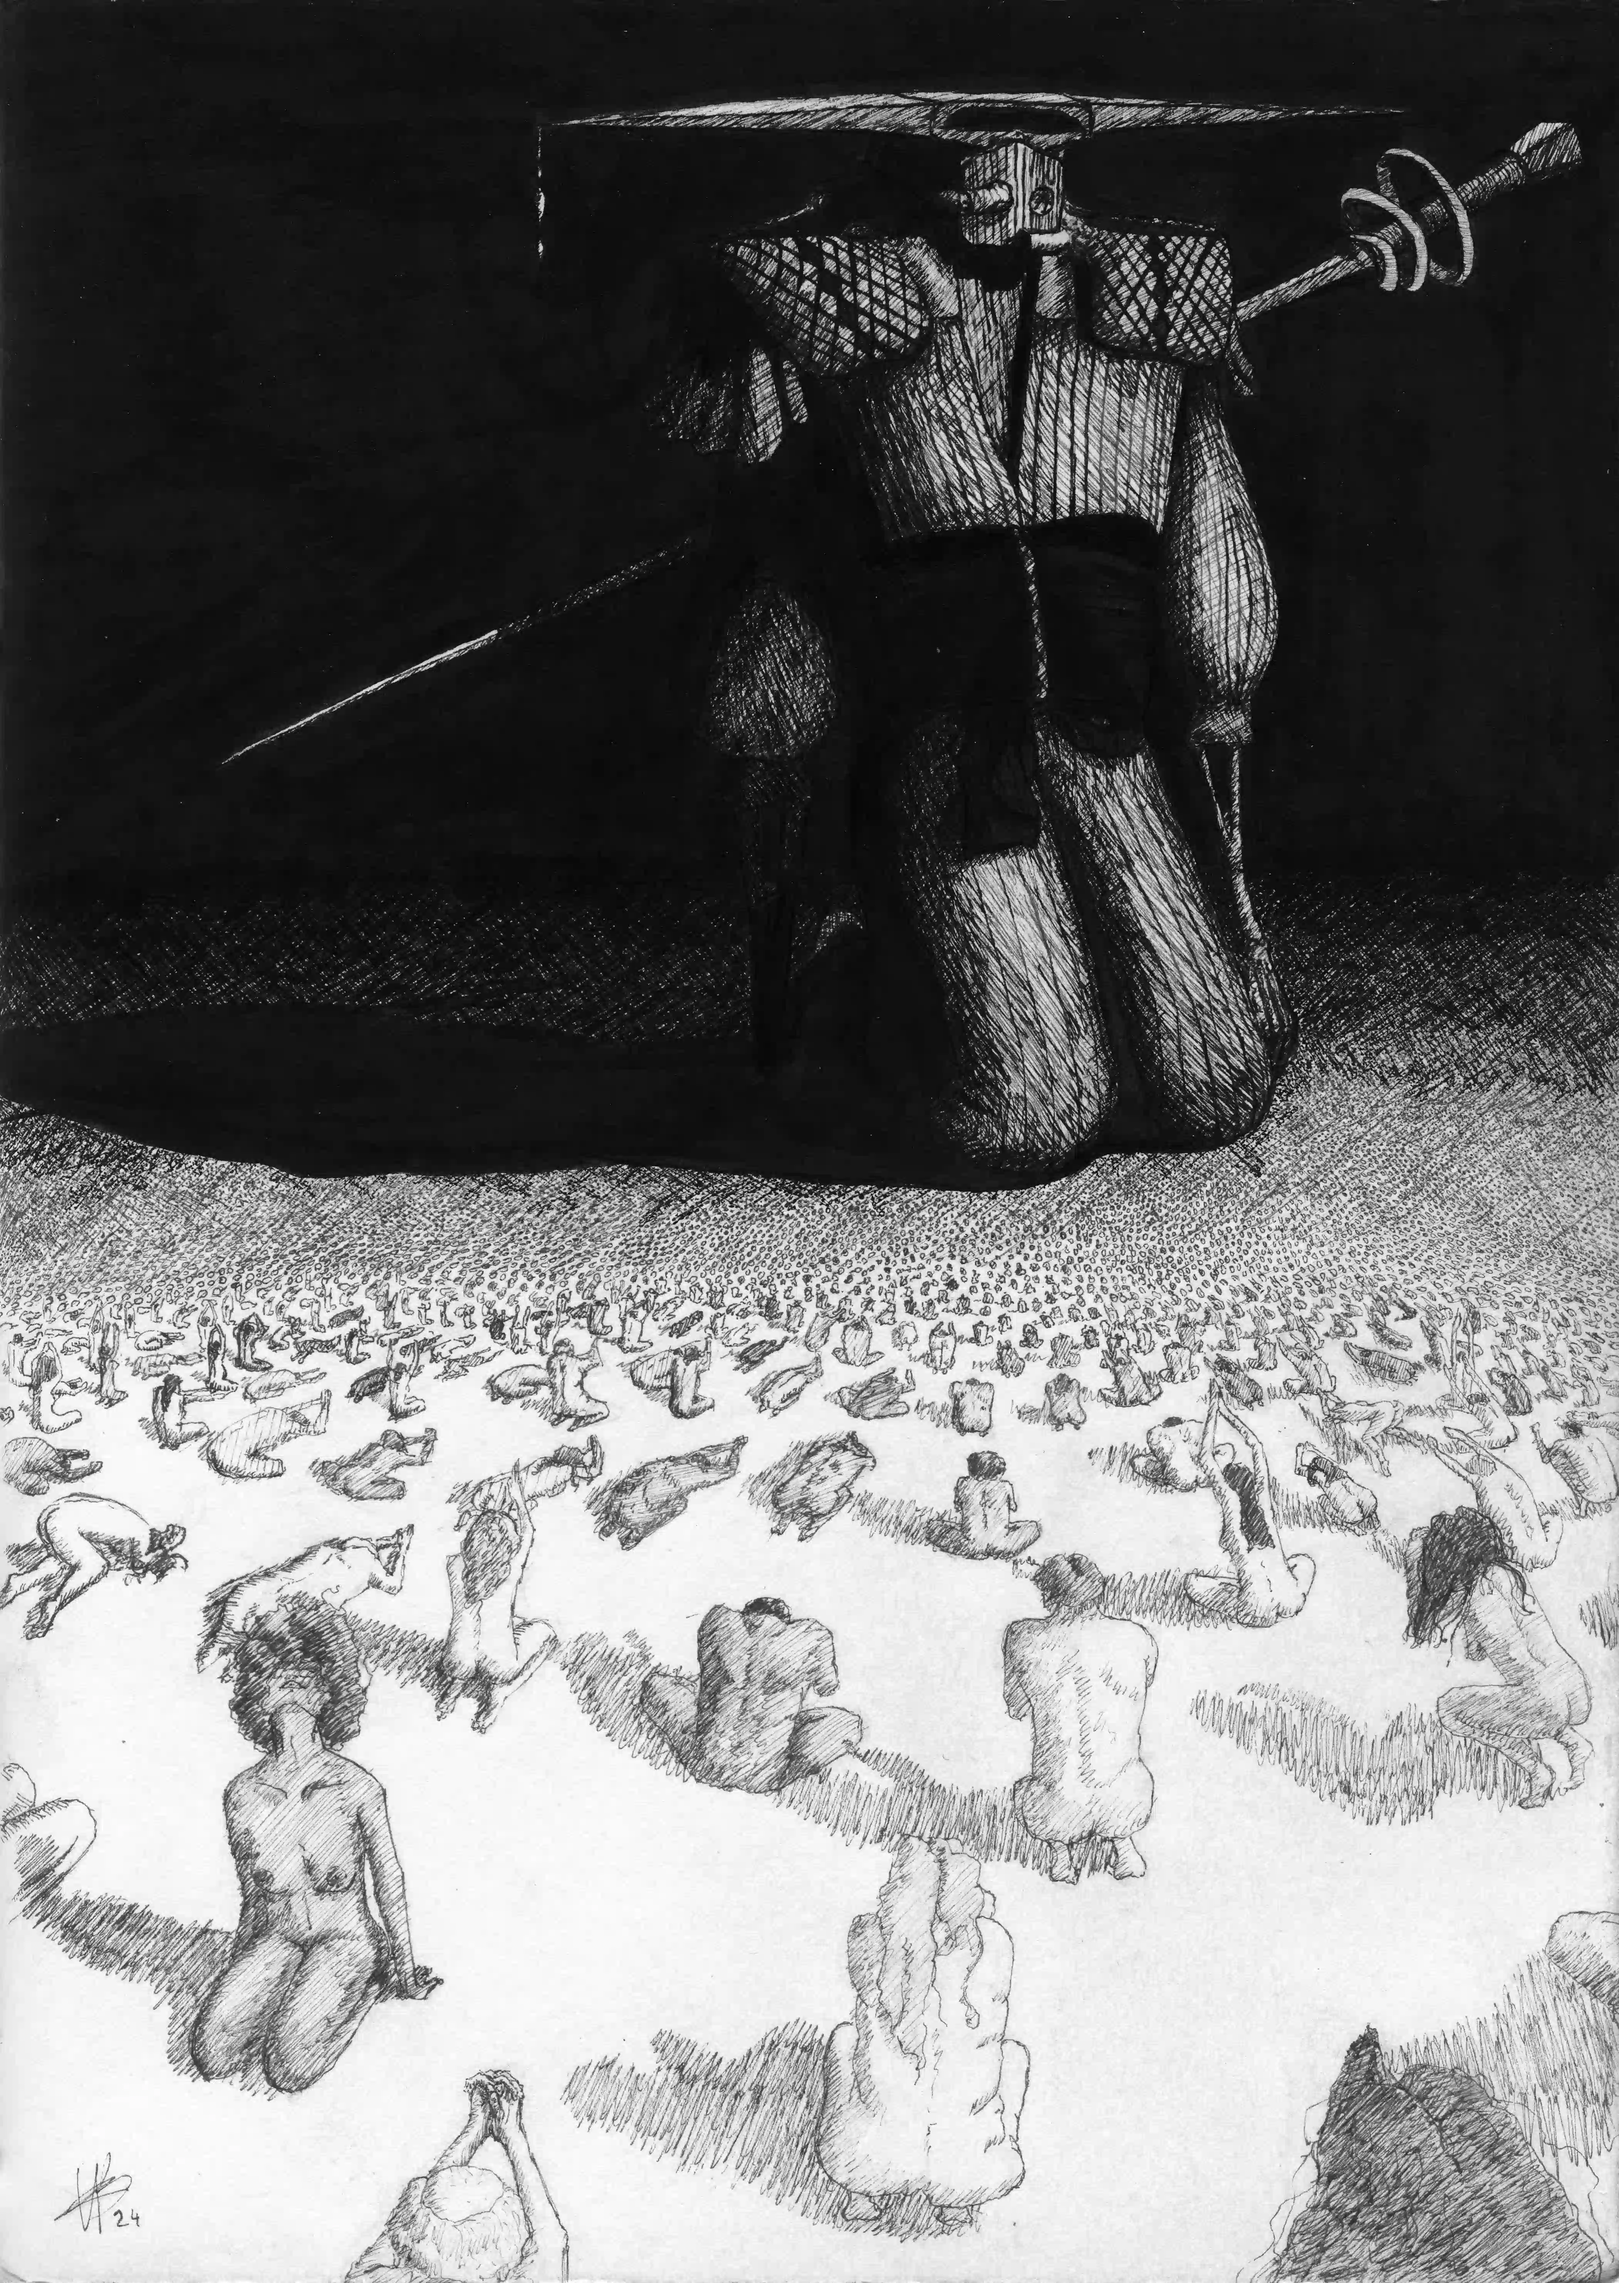
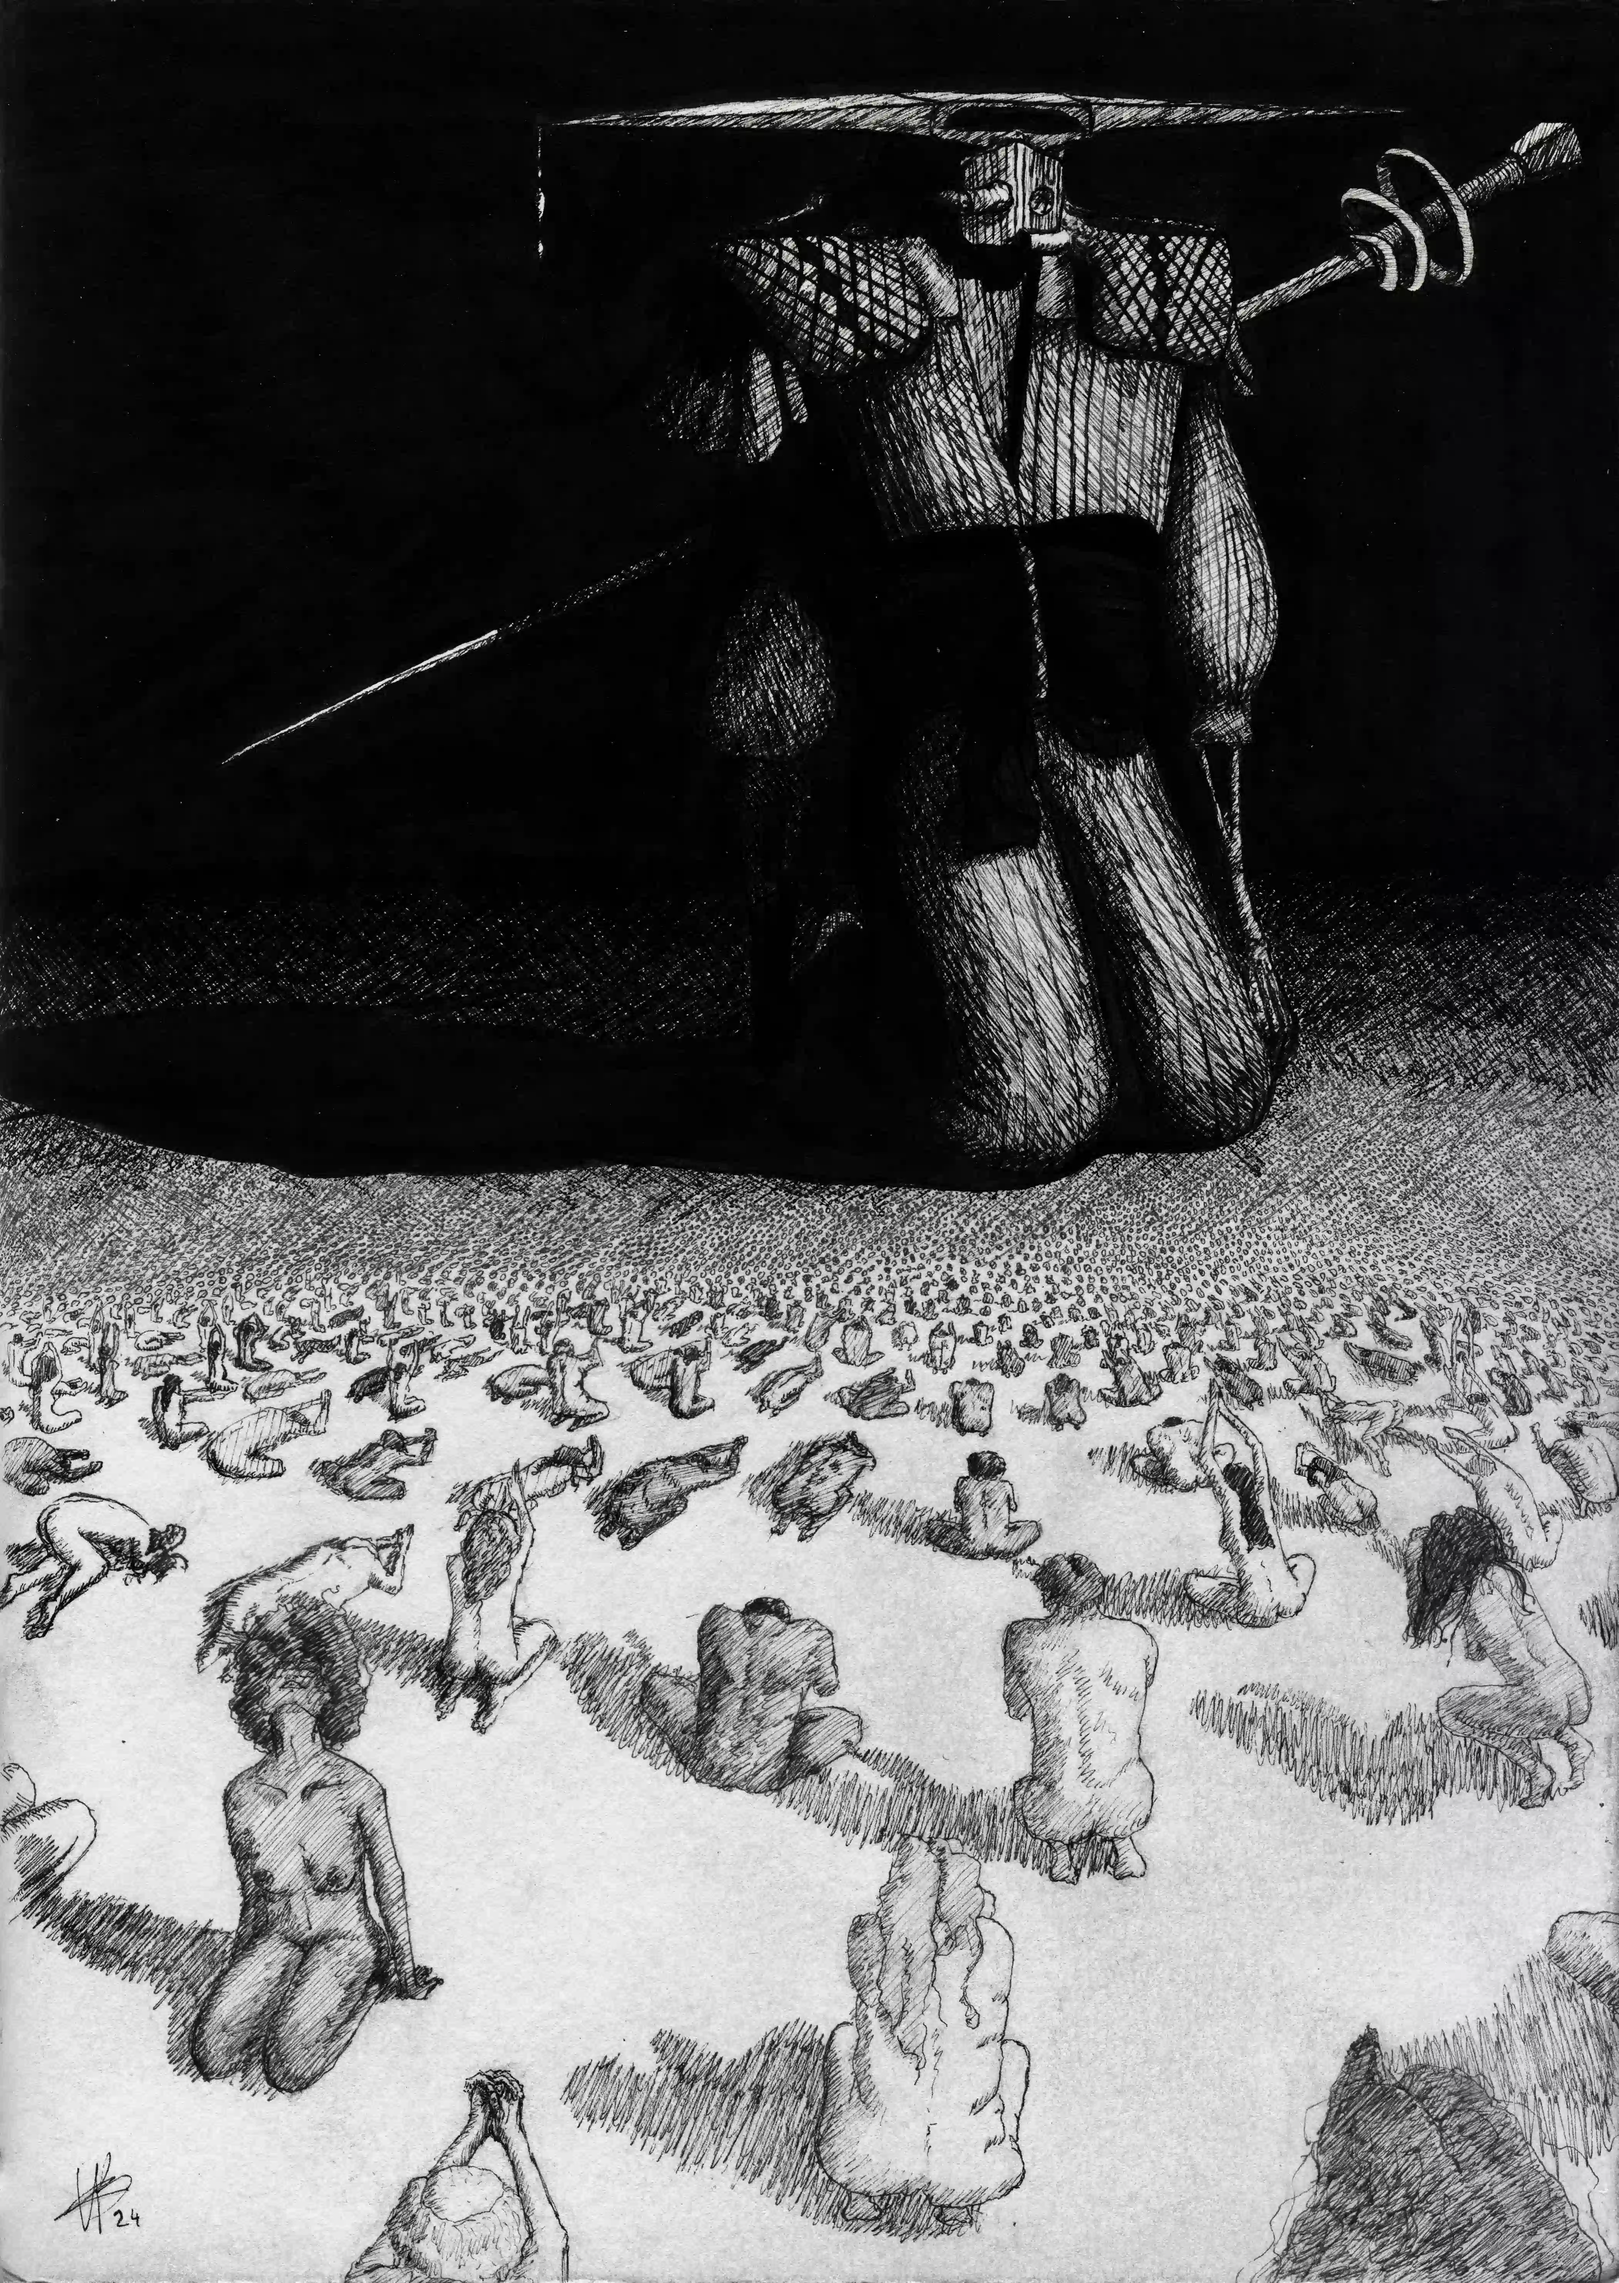
reducing Image sizes

diff --git a/collections/fine-line.html b/collections/fine-line.html
@@ -157,74 +157,74 @@
         artworks: [
             {
                 image: "../images/Webp/Fine Line/F1.webp",
-                originalImage: "../images/F1.jpeg",
+                originalImage: "../images/Webp/Fine Line/F1.webp",
                 title: "For the Good of All",
                 meta: "2023 · INK"
             },
             {
                 image: "../images/Webp/Fine Line/F2.webp",
-                originalImage: "../images/F2.jpeg",
+                originalImage: "../images/Webp/Fine Line/F2.webp",
                 title: "Vines",
                 meta: "2024 · INK"
             },
             {
                 image: "../images/Webp/Fine Line/F3.webp",
-                originalImage: "../images/F3.png",
+                originalImage: "../images/Webp/Fine Line/F3.webp",
                 title: "Untitled",
                 meta: "2024 · INK"
             },
             {
                 image: "../images/Webp/Fine Line/F4.webp",
-                originalImage: "../images/F4.png",
+                originalImage: "../images/Webp/Fine Line/F4.webp",
                 title: "The Cult of One",
                 meta: "2024 · INK"
             },
             {
                 image: "../images/Webp/Fine Line/F5.webp",
-                originalImage: "../images/F5.png",
+                originalImage: "../images/Webp/Fine Line/F5.webp",
                 title: "写真撮ってよ！",
                 meta: "2024 · INK",
                 titleFont: "japanese"
             },
             {
                 image: "../images/Webp/Fine Line/F6.webp",
-                originalImage: "../images/F6.png",
+                originalImage: "../images/Webp/Fine Line/F6.webp",
                 title: "Meat",
                 meta: "2025 · INK"
             },
             {
                 image: "../images/Webp/Fine Line/F7.webp",
-                originalImage: "../images/F7.png",
+                originalImage: "../images/Webp/Fine Line/F7.webp",
                 title: "The Thing",
                 meta: "2025 · INK"
             },
             {
                 image: "../images/Webp/Fine Line/F8.webp",
-                originalImage: "../images/F8.png",
+                originalImage: "../images/Webp/Fine Line/F8.webp",
                 title: "Human Again",
                 meta: "2026 · INK"
             },
             {
                 image: "../images/Webp/Fine Line/F9.webp",
-                originalImage: "../images/F9.png",
+                originalImage: "../images/Webp/Fine Line/F9.webp",
                 title: "Pure",
                 meta: "2026 · INK & GOUACHE"
             },
             {
                 image: "../images/Webp/Fine Line/F10.webp",
-                originalImage: "../images/F10.png",
+                originalImage: "../images/Webp/Fine Line/F10.webp",
                 title: "Bamboo",
                 meta: "2026 · INK"
             },
             {
                 image: "../images/Webp/Fine Line/F11.webp",
-                originalImage: "../images/F11.png",
+                originalImage: "../images/Webp/Fine Line/F11.webp",
                 title: "Standing on the Edge of the Unknown",
                 meta: "2026 · INK"
             },
             {
                 image: "../images/Webp/Fine Line/F12.webp",
-                originalImage: "../images/F12.png",
+                originalImage: "../images/Webp/Fine Line/F12.webp",
                 title: "Forsaken",
                 meta: "2026 · INK"
             }

diff --git a/collections/plants.html b/collections/plants.html
@@ -156,73 +156,73 @@
         artworks:[
             {
                 image: "../images/Webp/Plants/P1.webp",
-                originalImage: "../images/P1.jpeg",
+                originalImage: "../images/Webp/Plants/P1.webp",
                 title: "Untitled",
                 meta: "2021 · WATERCOLOUR",
             },
             {
                 image: "../images/Webp/Plants/P2.webp",
-                originalImage: "../images/P2.jpeg",
+                originalImage: "../images/Webp/Plants/P2.webp",
                 title: "Untitled",
                 meta: "2021 · PENCIL",
             },
             {
                 image: "../images/Webp/Plants/P3.webp",
-                originalImage: "../images/P3.jpeg",
+                originalImage: "../images/Webp/Plants/P3.webp",
                 title: "Untitled",
                 meta: "2021 · WATERCOLOUR & INK",
             },
             {
                 image: "../images/Webp/Plants/P4.webp",
-                originalImage: "../images/P4.jpeg",
+                originalImage: "../images/Webp/Plants/P4.webp",
                 title: "Untitled",
                 meta: "2021 · WATERCOLOUR & INK",
             },
             {
                 image: "../images/Webp/Plants/P5.webp",
-                originalImage: "../images/P5.jpeg",
+                originalImage: "../images/Webp/Plants/P5.webp",
                 title: "Untitled",
                 meta: "2021 · OIL PASTEL",
             },
             {
                 image: "../images/Webp/Plants/P6.webp",
-                originalImage: "../images/P6.jpeg",
+                originalImage: "../images/Webp/Plants/P6.webp",
                 title: "Untitled",
                 meta: "2021 · PEN",
             },
             {
                 image: "../images/Webp/Plants/P7.webp",
-                originalImage: "../images/P7.jpeg",
+                originalImage: "../images/Webp/Plants/P7.webp",
                 title: "Untitled",
                 meta: "2021 · PEN",
             },
             {
                 image: "../images/Webp/Plants/P8.webp",
-                originalImage: "../images/P8.jpeg",
+                originalImage: "../images/Webp/Plants/P8.webp",
                 title: "Untitled",
                 meta: "2021 · WATERCOLOR & INK",
             },
             {
                 image: "../images/Webp/Plants/P9.webp",
-                originalImage: "../images/P9.jpeg",
+                originalImage: "../images/Webp/Plants/P9.webp",
                 title: "Untitled",
                 meta: "2021 · WATERCOLOR & INK",
             },
             {
                 image: "../images/Webp/Plants/P10.webp",
-                originalImage: "../images/P10.jpeg",
+                originalImage: "../images/Webp/Plants/P10.webp",
                 title: "Untitled",
                 meta: "2021 · OIL PASTEL",
             },
             {
                 image: "../images/Webp/Plants/P11.webp",
-                originalImage: "../images/P11.jpeg",
+                originalImage: "../images/Webp/Plants/P11.webp",
                 title: "Untitled",
                 meta: "2021 · OIL PASTEL",
             },
             {
                 image: "../images/Webp/Plants/P12.webp",
-                originalImage: "../images/P12.jpeg",
+                originalImage: "../images/Webp/Plants/P12.webp",
                 title: "Untitled",
                 meta: "2021 · OIL PASTEL",
             }

diff --git a/collections/cosmopolitan.html b/collections/cosmopolitan.html
@@ -156,61 +156,61 @@
         artworks:[
             {
                 image: "../images/Webp/Cosmopolitan/C1.webp",
-                originalImage: "../images/C1.jpeg",
+                originalImage: "../images/Webp/Cosmopolitan/C1.webp",
                 title: "Untitled",
                 meta: "2022 · ACRYLIC",
             },
             {
                 image: "../images/Webp/Cosmopolitan/C2.webp",
-                originalImage: "../images/C2.jpeg",
+                originalImage: "../images/Webp/Cosmopolitan/C2.webp",
                 title: "Untitled",
                 meta: "2022 · ACRYLIC",
             },
             {
                 image: "../images/Webp/Cosmopolitan/C3.webp",
-                originalImage: "../images/C3.jpeg",
+                originalImage: "../images/Webp/Cosmopolitan/C3.webp",
                 title: "Untitled",
                 meta: "2022 · ACRYLIC & Textile",
             },
             {
                 image: "../images/Webp/Cosmopolitan/C4.webp",
-                originalImage: "../images/C4.jpeg",
+                originalImage: "../images/Webp/Cosmopolitan/C4.webp",
                 title: "Untitled",
                 meta: "2022 · TEXTILE COLLAGE",
             },
             {
                 image: "../images/Webp/Cosmopolitan/C5.webp",
-                originalImage: "../images/C5.jpeg",
+                originalImage: "../images/Webp/Cosmopolitan/C5.webp",
                 title: "Untitled",
                 meta: "2022 · TEXTILE COLLAGE",
             },
             {
                 image: "../images/Webp/Cosmopolitan/C6.webp",
-                originalImage: "../images/C6.jpeg",
+                originalImage: "../images/Webp/Cosmopolitan/C6.webp",
                 title: "Untitled",
                 meta: "2022 · ACRYLIC & TEXTILE",
             },
             {
                 image: "../images/Webp/Cosmopolitan/C7.webp",
-                originalImage: "../images/C7.jpeg",
+                originalImage: "../images/Webp/Cosmopolitan/C7.webp",
                 title: "Untitled",
                 meta: "2022 · ACRYLIC & TEXTILE",
             },
             {
                 image: "../images/Webp/Cosmopolitan/C8.webp",
-                originalImage: "../images/C8.jpeg",
+                originalImage: "../images/Webp/Cosmopolitan/C8.webp",
                 title: "Untitled",
                 meta: "2022 · ACRYLIC",
             },
             {
                 image: "../images/Webp/Cosmopolitan/C9.webp",
-                originalImage: "../images/C9.jpeg",
+                originalImage: "../images/Webp/Cosmopolitan/C9.webp",
                 title: "Untitled",
                 meta: "2022 · ACRYLIC & TEXTILE",
             },
             {
                 image: "../images/Webp/Cosmopolitan/C10.webp",
-                originalImage: "../images/C10.jpeg",
+                originalImage: "../images/Webp/Cosmopolitan/C10.webp",
                 title: "Untitled",
                 meta: "2022 · ACRYLIC & TEXTILE",
             }

diff --git a/js/collection.js b/js/collection.js
@@ -667,22 +667,7 @@ const artworks = window.collectionConfig?.artworks || [
 ];
 
 function getOriginalImagePath(index) {
-    const artwork = artworks[index];
-
-    if (artwork.originalImage) {
-        return artwork.originalImage;
-    }
-
-    const number = index + 1;
-    let extension = "jpeg";
-
-    if (number === 8 || number === 10) {
-        extension = "jpg";
-    } else if (number === 9) {
-        extension = "png";
-    }
-
-    return `../images/H${number}.${extension}`;
+    return artworks[index].image;
 }
 
 const preloadedImages = artworks.map((artwork) => {

diff --git a/index.html b/index.html
@@ -53,7 +53,7 @@
 
                     <a href="collections/human-form.html?artwork=8" aria-label="View artwork 8 in Human Form">
                         <img
-                            src="images/Hero1.jpg"
+                            src="images/Webp/Human Form/H8.webp"
                             alt="Featured Artwork — view in Human Form"
                         >
                     </a>
